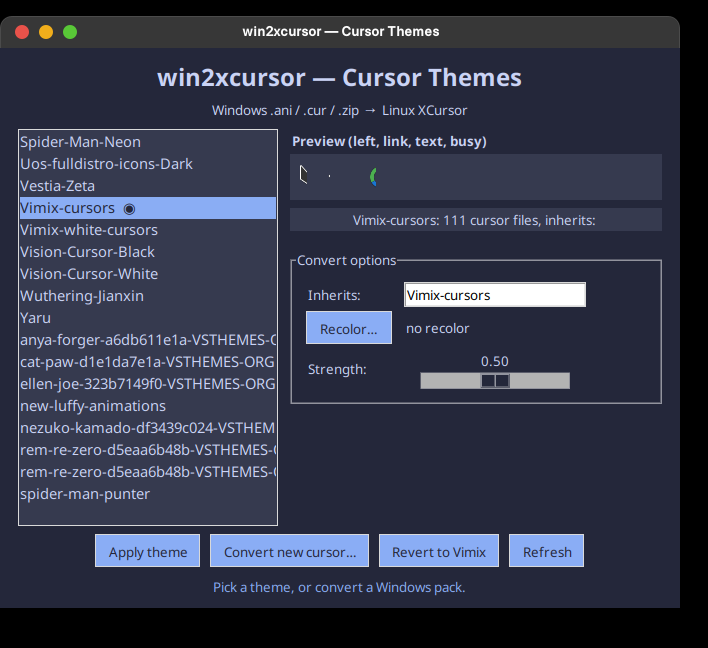
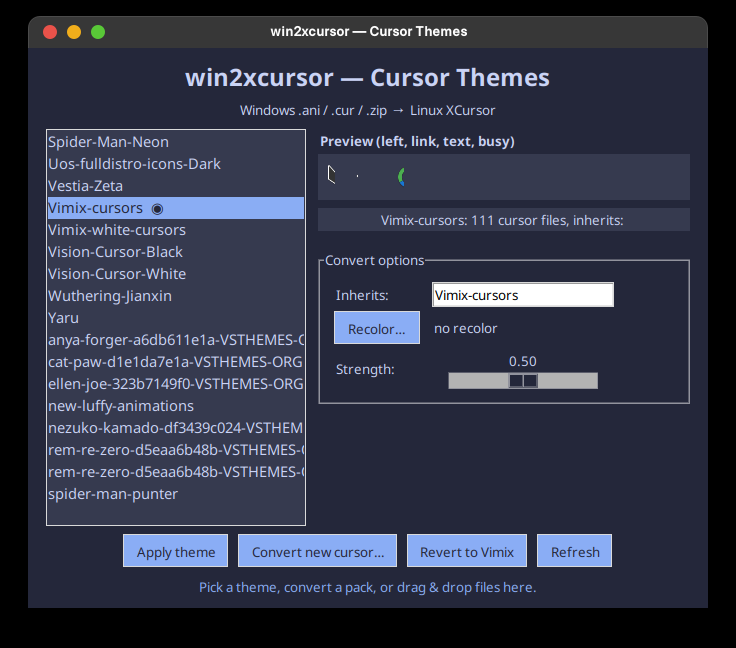
Drag-and-drop conversion + fresh-pack verified
- gui: drop .zip/.cur/.ani (or folders) anywhere on the window;
  uses optional tkinterdnd2, file picker unchanged without it
- converter: parse_drop_files + is_cursor_source helpers
- tests: 3 new drop-parsing tests (14 total, all passing)
- verified on a never-before-converted pack (black-windows-cursors):
  CLI convert, animated watch/busy kept 16 frames, drop-handler sim
  installed 50 cursors, applied as Black-Cursors

diff --git a/gui.py b/gui.py
@@ -15,6 +15,12 @@ import tkinter as tk
 import zipfile
 from tkinter import colorchooser, filedialog, messagebox, simpledialog
 
+try:
+    from tkinterdnd2 import DND_FILES, TkinterDnD
+    HAS_DND = True
+except ImportError:  # drag & drop is optional; file picker always works
+    HAS_DND = False
+
 HERE = os.path.dirname(os.path.abspath(__file__))
 sys.path.insert(0, HERE)
 import cursor_converter as C
@@ -184,6 +190,11 @@ class App:
         self.prog = tk.Label(root, textvariable=self.status_var, bg="#24273a", fg="#8aadf4")
         self.prog.pack(pady=(0, 10))
 
+        if HAS_DND:
+            root.drop_target_register(DND_FILES)
+            root.dnd_bind("<<Drop>>", self.on_drop)
+            self.status_var.set("Pick a theme, convert a pack, or drag & drop files here.")
+
         self.refresh_list()
 
     # -- theme list -----------------------------------------------------
@@ -260,7 +271,20 @@ class App:
             title="Choose cursor file(s)", filetypes=[("Cursor packs", "*.zip *.cur *.ani"), ("All", "*")])
         if not paths:
             return
-        name = simpledialog.askstring("Theme name", "Name for the new theme:", initialvalue="My-New-Cursor")
+        self.start_convert(list(paths))
+
+    def on_drop(self, event):
+        """Handle files dropped anywhere on the window (needs tkinterdnd2)."""
+        paths = [p for p in C.parse_drop_files(event.data) if C.is_cursor_source(p)]
+        if not paths:
+            messagebox.showinfo("win2xcursor", "Drop .zip / .cur / .ani files (or a folder of them).")
+            return
+        self.root.lift()
+        self.start_convert(paths)
+
+    def start_convert(self, paths):
+        default = C.sanitize(os.path.splitext(os.path.basename(paths[0]))[0])
+        name = simpledialog.askstring("Theme name", "Name for the new theme:", initialvalue=default)
         if not name:
             messagebox.showinfo("win2xcursor", "Conversion cancelled.")
             return
@@ -316,6 +340,6 @@ class App:
 
 
 if __name__ == "__main__":
-    root = tk.Tk()
+    root = TkinterDnD.Tk() if HAS_DND else tk.Tk()
     App(root)
     root.mainloop()

diff --git a/tests/test_converter.py b/tests/test_converter.py
@@ -108,6 +108,25 @@ class TestHelpers(unittest.TestCase):
             C.convert_input("/tmp/win2xcursor-no-such-file.zip", "X", out_dir="/tmp/x")
 
 
+class TestDropParsing(unittest.TestCase):
+    def test_braced_paths_with_spaces(self):
+        data = "{/tmp/My Cursor Pack/a.zip} /tmp/b.cur"
+        self.assertEqual(C.parse_drop_files(data),
+                         ["/tmp/My Cursor Pack/a.zip", "/tmp/b.cur"])
+
+    def test_ignores_blank(self):
+        self.assertEqual(C.parse_drop_files(""), [])
+
+    def test_is_cursor_source(self):
+        self.assertTrue(C.is_cursor_source("/tmp/x.zip"))
+        self.assertTrue(C.is_cursor_source("/tmp/x.ANI"))
+        self.assertTrue(C.is_cursor_source("/tmp/x.cur"))
+        self.assertFalse(C.is_cursor_source("/tmp/x.inf"))
+        self.assertFalse(C.is_cursor_source("/tmp/x.jpg"))
+        with tempfile.TemporaryDirectory() as tmp:
+            self.assertTrue(C.is_cursor_source(tmp))
+
+
 class TestThemeAssembly(unittest.TestCase):
     def test_write_theme_layout(self):
         frames = C.static_frames(make_cur(make_png()), "arrow")

diff --git a/cursor_converter.py b/cursor_converter.py
@@ -381,6 +381,24 @@ def cursors_from_single(data, name, tint=None, strength=0.0):
 def sanitize(name):
     return re.sub(r"[^A-Za-z0-9]+", "-", name).strip("-") or "Theme"
 
+CURSOR_EXTS = (".cur", ".ani", ".zip")
+
+def is_cursor_source(path):
+    """True for convertible inputs: .cur/.ani/.zip files or directories."""
+    if os.path.isdir(path):
+        return True
+    return os.path.splitext(path)[1].lower() in CURSOR_EXTS
+
+def parse_drop_files(data):
+    """Split a TkDND '<<Drop>>' file list (Tcl list: {braced} or bare paths)
+    into a plain list of paths."""
+    out = []
+    for braced, bare in re.findall(r"\{([^}]*)\}|(\S+)", data):
+        p = (braced or bare).strip()
+        if p:
+            out.append(p)
+    return out
+
 # ------------------------------------------------------------ theme assembly ---
 def _main_cursor(nm):
     n = nm.lower()

diff --git a/CONTRIBUTING.md b/CONTRIBUTING.md
@@ -3,7 +3,7 @@
 Small project, simple rules.
 
 - Open an issue first if you're planning anything bigger than a typo fix, so we don't duplicate work.
-- Keep dependencies at zero beyond Pillow (+ tkinter from the OS for the GUI). If your change needs a new pip package, it probably doesn't belong here.
+- Keep dependencies at zero beyond Pillow (+ tkinter from the OS for the GUI, tkinterdnd2 only as an optional drag-and-drop extra). If your change needs a new hard pip requirement, it probably doesn't belong here.
 - Add or update a test in `tests/` when you touch `cursor_converter.py`. Run `python3 -m unittest discover -s tests -v` before pushing.
 - Test a real conversion, not just unit tests: convert one `.zip` pack to a temp dir and check the theme loads (`--out /tmp/x` keeps your `~/.icons` clean).
 - Match the existing code style: plain stdlib, no cleverness, comments only where the format demands it (ANI chunks, DIB quirks).

diff --git a/README.md b/README.md
@@ -41,7 +41,7 @@ python3 batch_convert.py --src ~/Downloads/cursors --out ~/.icons
 python3 batch_convert.py --src ~/Downloads/cursors --list   # just preview the names first
 ```
 
-Or skip the terminal: `python3 gui.py` lists installed themes, shows a preview, applies with one click, and converts new packs with options for the fallback theme, recoloring, and strength.
+Or skip the terminal: `python3 gui.py` lists installed themes, shows a preview, applies with one click, and converts new packs with options for the fallback theme, recoloring, and strength. You can also drag and drop `.zip` / `.cur` / `.ani` files (or a folder) straight onto the window — needs the optional `tkinterdnd2` package (`pip install tkinterdnd2`), otherwise the Convert button does the same job.
 
 Optional tint, if you want the whole set pushed toward a color:
 
